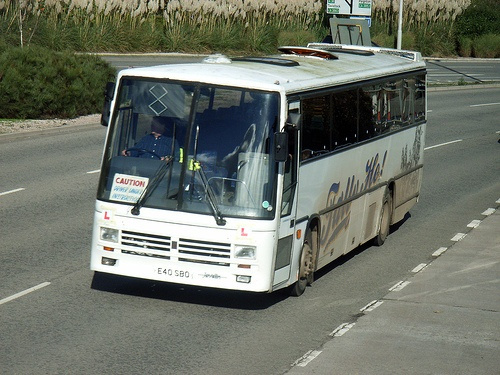
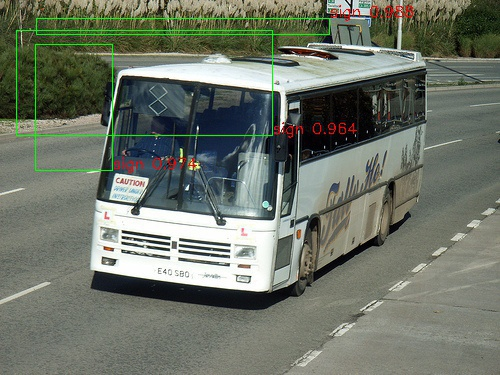
V2.5 add show detection method

Changed region(s): [[0.03, 0.0, 0.84, 0.4693]]

diff --git a/my_tools/show_detection.py b/my_tools/show_detection.py
@@ -1,0 +1,128 @@
+#!/usr/bin/env python
+
+# --------------------------------------------------------
+# Faster R-CNN
+# Copyright (c) 2015 Microsoft
+# Licensed under The MIT License [see LICENSE for details]
+# Written by Ross Girshick
+# --------------------------------------------------------
+
+"""
+Demo script showing detections in sample images.
+
+See README.md for installation instructions before running.
+"""
+#Example:
+#python my_tools/show_detection.py --gpu 1 --prototxt models/sign/VGG16/faster_rcnn_end2end/test.prototxt --caffemodel output/faster_rcnn_end2end/sign_2017_train/train_single_scale_600/vgg16_faster_rcnn_iter_110000.caffemodel
+
+import _init_paths
+from fast_rcnn.config import cfg
+from fast_rcnn.test import im_detect
+from fast_rcnn.nms_wrapper import nms
+from utils.timer import Timer
+import matplotlib.pyplot as plt
+import numpy as np
+import scipy.io as sio
+import caffe, os, sys, cv2
+import argparse
+import os
+
+CLASSES = ('__background__',
+           'sign')
+
+def vis_detections(im, class_name, dets, thresh=0.5):
+    """Draw detected bounding boxes."""
+    inds = np.where(dets[:, -1] >= thresh)[0]
+    if len(inds) == 0:
+        return
+
+    #im = im[:, :, (2, 1, 0)]
+    for i in inds:
+        bbox = dets[i, :4]
+        score = dets[i, -1]
+        cv2.rectangle(im, (int(bbox[0]), int(bbox[1])), (int(bbox[2]-bbox[0]), int(bbox[3]-bbox[1])), (0, 255, 0), 1)
+        cv2.putText(im, '{:s} {:.3f}'.format(class_name, score), (int(bbox[0]),int(bbox[1]) - 2), cv2.FONT_HERSHEY_SIMPLEX, 0.5, (0,0,255))
+    #title
+    cv2.putText(im, ('{} detections with p({} | box) >= {:.1f}').format(class_name, class_name,thresh),
+                (500, 50), cv2.FONT_HERSHEY_SIMPLEX, 0.5, (0,0,255))
+    #cv2.imwrite(file,im)
+
+def demo(net, image_name):
+    """Detect object classes in an image using pre-computed object proposals."""
+
+    # Load the demo image
+    im_file = os.path.join(cfg.DATA_DIR, 'demo', image_name)
+    im = cv2.imread(im_file)
+
+    # Detect all object classes and regress object bounds
+    timer = Timer()
+    timer.tic()
+    scores, boxes = im_detect(net, im)
+    timer.toc()
+    print ('Detection took {:.3f}s for '
+           '{:d} object proposals').format(timer.total_time, boxes.shape[0])
+
+    # Visualize detections for each class
+    CONF_THRESH = 0.8
+    NMS_THRESH = 0.3
+    for cls_ind, cls in enumerate(CLASSES[1:]):
+        cls_ind += 1 # because we skipped background
+        cls_boxes = boxes[:, 4*cls_ind:4*(cls_ind + 1)]
+        cls_scores = scores[:, cls_ind]
+        dets = np.hstack((cls_boxes,
+                          cls_scores[:, np.newaxis])).astype(np.float32)
+        keep = nms(dets, NMS_THRESH)
+        dets = dets[keep, :]
+        vis_detections(im, cls, dets, thresh=CONF_THRESH)
+    cv2.imwrite(im_file,im)
+    
+def parse_args():
+    """Parse input arguments."""
+    parser = argparse.ArgumentParser(description='Faster R-CNN demo')
+    parser.add_argument('--gpu', dest='gpu_id', help='GPU device id to use [0]',
+                        default=0, type=int)
+    parser.add_argument('--prototxt',dest='prototxt',type=str)
+    parser.add_argument('--caffemodel', dest='caffemodel',type=str)
+
+    args = parser.parse_args()
+
+    return args
+
+if __name__ == '__main__':
+    cfg.TEST.HAS_RPN = True  # Use RPN for proposals
+
+    args = parse_args()
+
+    prototxt = args.prototxt
+    caffemodel =args.caffemodel
+                 
+    if not os.path.isfile(caffemodel):
+        raise IOError(('{:s} not found.\nDid you run ./data/script/'
+                       'fetch_faster_rcnn_models.sh?').format(caffemodel))
+
+  
+   
+    
+    caffe.set_mode_gpu()
+    caffe.set_device(args.gpu_id)
+    cfg.GPU_ID = args.gpu_id
+    net = caffe.Net(prototxt, caffemodel, caffe.TEST)
+
+    print '\n\nLoaded network {:s}'.format(caffemodel)
+
+    # Warmup on a dummy image
+    im = 128 * np.ones((300, 500, 3), dtype=np.uint8)
+    for i in xrange(2):
+        _, _= im_detect(net, im)
+    im_names=[]
+    for f in os.listdir("data/demo/"):
+        if f[-3:]=="png" or f[-3:]=="jpg" :
+            im_names.append(f)
+     
+    for im_name in im_names:
+        print '~~~~~~~~~~~~~~~~~~~~~~~~~~~~~~~~~~~'
+        print 'Demo for data/demo/{}'.format(im_name)
+        demo(net, im_name)
+
+    #plt.show()
+

diff --git a/my_tools/_init_paths.py b/my_tools/_init_paths.py
@@ -1,0 +1,25 @@
+# --------------------------------------------------------
+# Fast R-CNN
+# Copyright (c) 2015 Microsoft
+# Licensed under The MIT License [see LICENSE for details]
+# Written by Ross Girshick
+# --------------------------------------------------------
+
+"""Set up paths for Fast R-CNN."""
+
+import os.path as osp
+import sys
+
+def add_path(path):
+    if path not in sys.path:
+        sys.path.insert(0, path)
+
+this_dir = osp.dirname(__file__)
+
+# Add caffe to PYTHONPATH
+caffe_path = osp.join(this_dir, '..', 'caffe-fast-rcnn', 'python')
+add_path(caffe_path)
+
+# Add lib to PYTHONPATH
+lib_path = osp.join(this_dir, '..', 'lib')
+add_path(lib_path)
